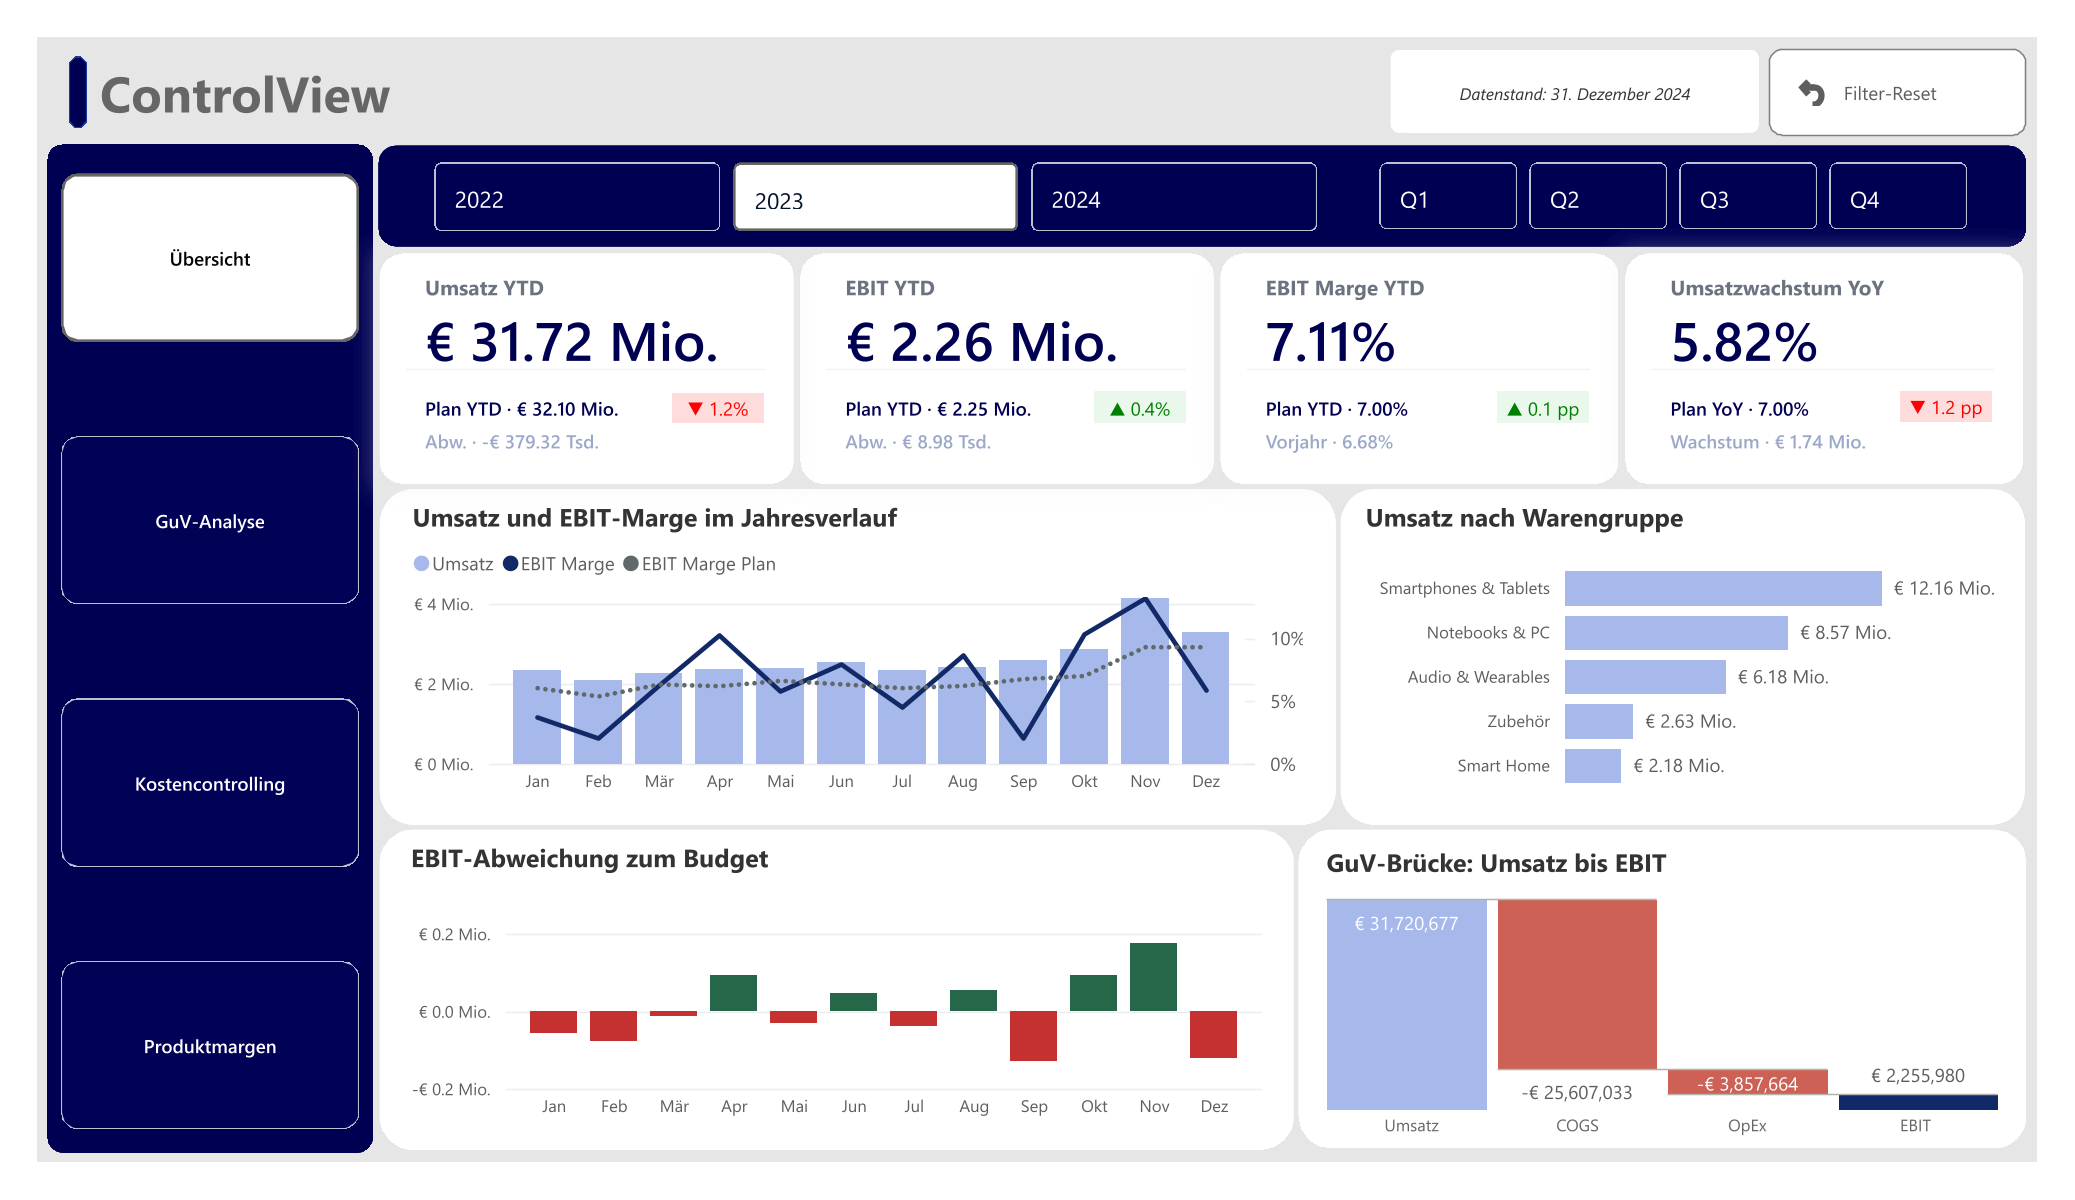
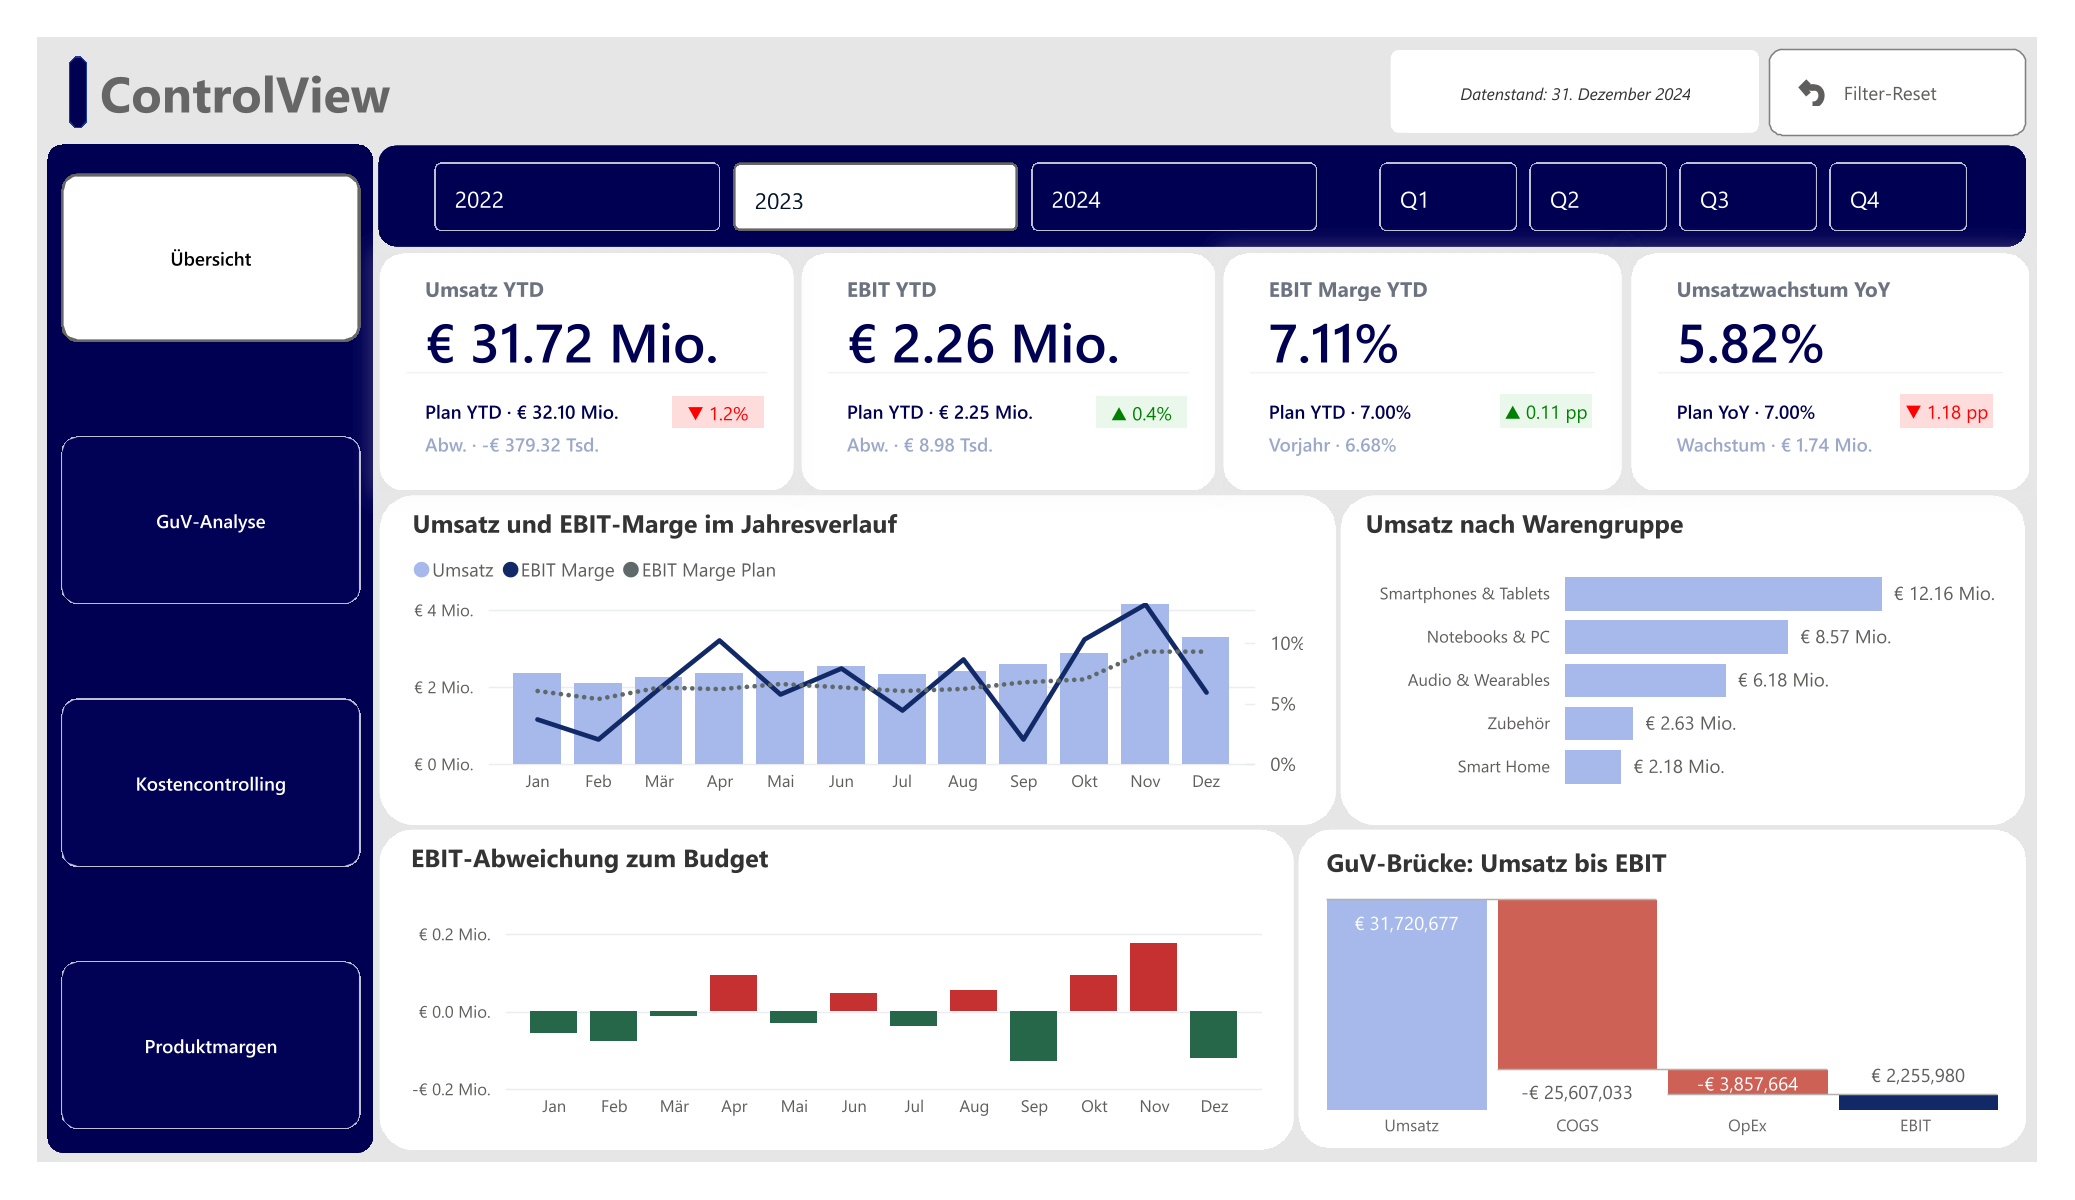
feat: add page2 (guv-analysis) of power bi report docs: add short power bi dashboard description by page

diff --git a/README.md b/README.md
@@ -159,19 +159,25 @@ Vier Reporting-Seiten decken die klassischen Controlling-Perspektiven ab: Execut
 
 ### Seite 1: Übersicht
 
+Beantwortet die Frage, wie sich das Geschäft im gewählten Zeitraum insgesamt entwickelt: die GuV-Kaskade von Umsatz bis EBIT im Ist-Plan- und Vorjahresvergleich, als Einstiegspunkt für die drei folgenden Seiten, die jeweils eine eigene Perspektive vertiefen.
+
 ![Übersicht](docs/images/dashboard/page1_uebersicht.png)
 
 ### Seite 2: GuV-Analyse
 
-*In Arbeit.* Geplant: monatliche P&L-Matrix mit Ist/Plan/Abweichung je Kontozeile, gruppiert nach Umsatz, COGS und OpEx.
+Beantwortet, auf welcher Kontozeile und in welchem Monat eine Abweichung zum Plan entsteht: nicht nur, dass das EBIT abweicht (Seite 1), sondern wo genau. Zwei Ansichten über einen Umschalter erreichbar: relative Abweichung in % und absolute Abweichung in €.
+
+![GuV-Analyse](docs/images/dashboard/page2_guv-analyse-relativ.png)
+
+![GuV-Analyse absolut](docs/images/dashboard/page2_guv-analyse-absolut.png)
 
 ### Seite 3: Kostencontrolling
 
-*In Arbeit.* Geplant: Kostenabweichung je Kostenstelle mit Zuordnung zum jeweiligen Cost Owner.
+*In Arbeit.* Beantwortet, welche Kostenstelle eine Abweichung verantwortet: die organisatorische Sicht auf dieselbe GuV, unabhängig von der Konto- (Seite 2) und Produktsicht (Seite 4).
 
 ### Seite 4: Produktmargen
 
-*In Arbeit.* Geplant: Deckungsbeitrag I je Warengruppe im Ist-Plan-Vergleich, inklusive Margenentwicklung über die Zeit.
+*In Arbeit.* Beantwortet, welche Warengruppe tatsächlich Geld verdient: dünnmargige Endgeräte vs. hochmargiges Eigenmarke-Zubehör im Deckungsbeitrag I.
 
 DAX Measures: [`powerbi/te_create_measures.csx`](powerbi/te_create_measures.csx)
 